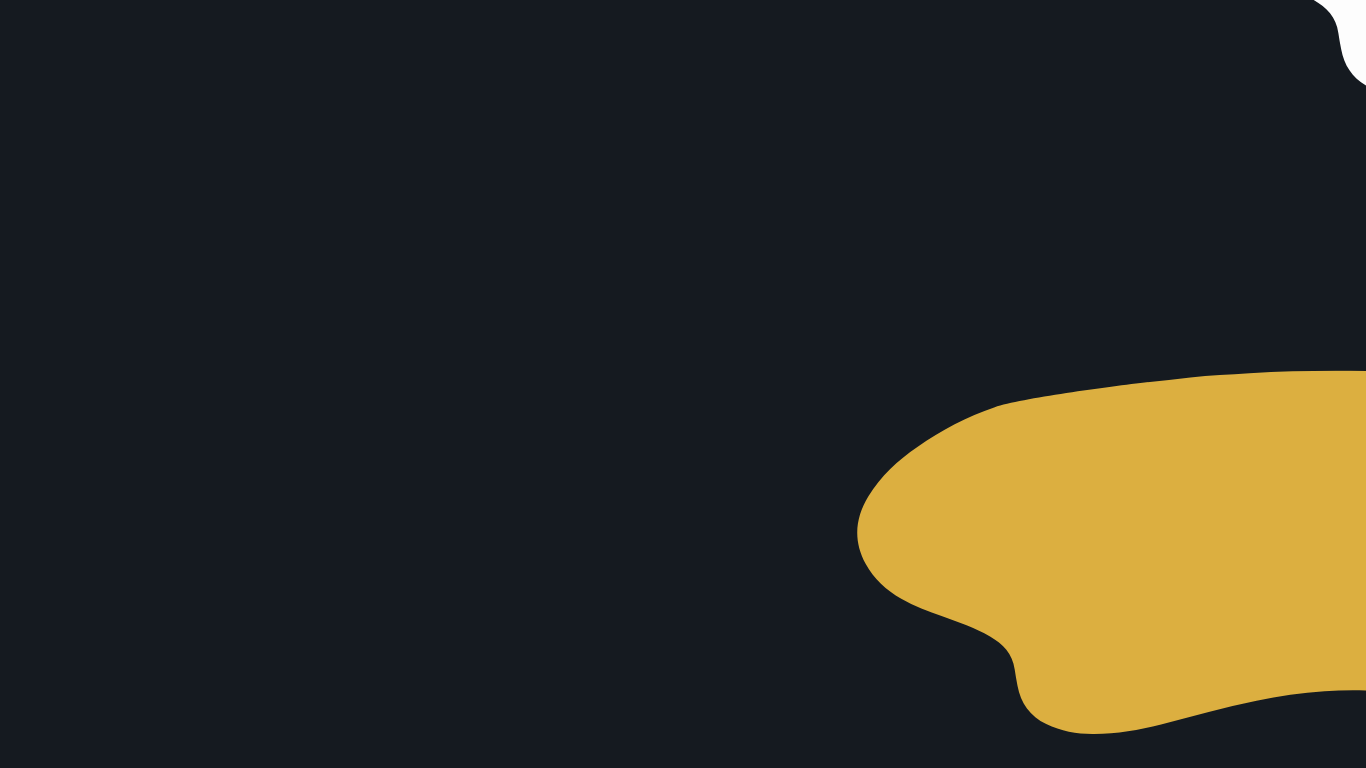
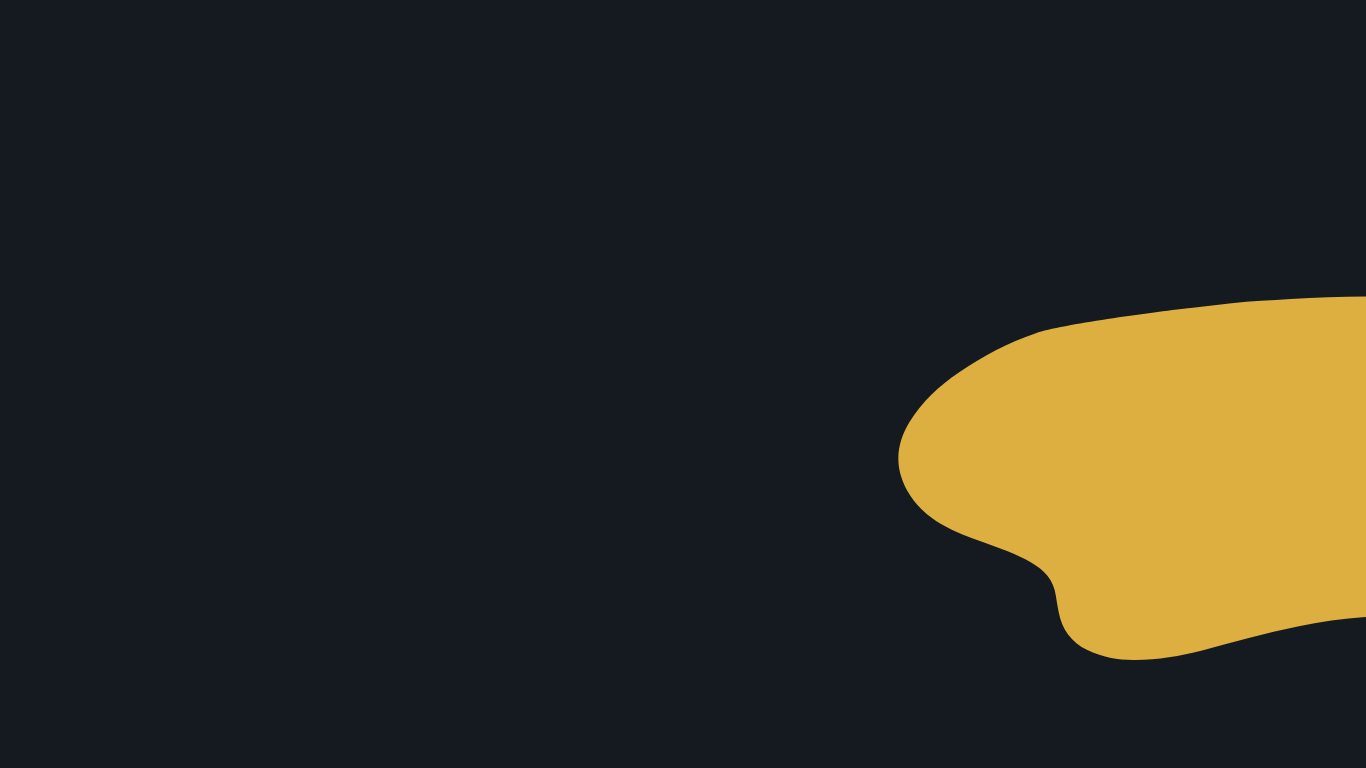
Procedure background and mobile

Changed region(s): [[0.6149, 0.375, 1.0, 0.9688], [0.9531, 0.0, 1.0, 0.125]]

diff --git a/src/components/Hero.jsx b/src/components/Hero.jsx
@@ -7,22 +7,23 @@ const Hero = () => {
 
   return (
     <section className='relative w-full h-screen mx-auto'>
-      <div className={`absolute inset-0 lg:top-[200px] top-[150px] mx-auto flex lg:flex-row flex-col items-start gap-10`}>
+      <div className={`absolute inset-0 lg:top-[180px] top-[150px] mx-auto flex lg:flex-row flex-col items-start gap-10`}>
         <div className='lg:w-5/6 w-full flex flex-col justify-center items-center lg:bg-transparent home p-6 mt-10 rounded-xl landing'>
-          <h1 className='text-white text-[25px] lg:text-6xl text-center'>
+          <h1 className='text-white text-[25px] lg:text-5xl text-center'>
             Transform Your Ground Leveling with our <br/>
             <span className='text-secondary text-[25px] lg:text-6xl'>
               Flat Floor System
             </span>
           </h1>
-          <p className='text-center lg:my-10 my-12 lg:text-3xl text-white'>
+          <p className='text-center lg:mt-18 my-12 lg:text-3xl text-white'>
           Revolutionize your projects with <span className='text-secondary font-bold'>ML GOLDEN TRADING</span> , through our patented groundbreaking <span className='text-secondary'>self-leveling cement screeding</span> screeding and <span className='text-secondary'>cement mortar screeding systems</span> . Trusted by contractors for unparalleled precision and efficiency.
           </p>
-          <a class="bg-white hover:bg-zinc-300 transition duration-500 text-black cursor-pointer font-bold py-5 px-7 rounded-full" key={navLinks[0].id} href={`#${navLinks[0].id}`} onClick={()=>setActive(navLinks[0].title)}>
+          <a class="bg-white hover:bg-zinc-300 transition duration-500 text-black cursor-pointer font-bold py-5 px-7 xl:mt-20 rounded-full" key={navLinks[0].id} href={`#${navLinks[0].id}`} onClick={()=>setActive(navLinks[0].title)}>
               Explore Now
           </a>
         </div>
         <div className='product h-full lg:w-1/3 lg:top-0 top-1/4 lg:relative absolute w-full mr-5'>
+          <div className='w-full h-full absolute lg:z-0 z-10'></div>
           <Product1Canvas/>
         </div>
       </div>

diff --git a/src/App.jsx b/src/App.jsx
@@ -1,7 +1,23 @@
 import { BrowserRouter } from "react-router-dom"
 import { AboutUs, Benefits, Footer, Hero, Navbar, Order, Procedure, WhyUs} from "./components"
+import React, { useState, useEffect } from 'react';
 
 const App = () => {
+  const [isMobile, setIsMobile] = useState(false);
+
+  useEffect(() => {
+    const mediaQuery = window.matchMedia('(max-width: 1024px)');
+    setIsMobile(mediaQuery.matches);
+    const handleMediaQueryChange = (event) => {
+      setIsMobile(event.matches);
+    };
+    mediaQuery.addEventListener('change', handleMediaQueryChange);
+
+    return () => {
+      mediaQuery.removeEventListener('change', handleMediaQueryChange);
+    };
+  }, []);
+
   return (
     <BrowserRouter>
       <div className="relative z-0 bg-primary">
@@ -10,7 +26,9 @@ const App = () => {
           <Hero/>
         </div>
       </div>
+      <div className={`blob-container ${isMobile ? 'procedure_blob_mobile' : 'procedure_blob'}`}>
         <Procedure/>
+      </div>
         <Benefits/>
         <AboutUs/>
         <WhyUs/>

diff --git a/src/index.css b/src/index.css
@@ -21,3 +21,20 @@
 .landing{
     z-index: 1;
 }
+
+.blob-container{
+    position: relative;
+    aspect-ratio: 960/540;
+    width: 100%;   
+    height: 100%;
+    z-index: -2;
+    background-repeat: no-repeat;
+    background-position:center ;
+    background-size: cover;
+}
+.procedure_blob{
+    background-image: url("./assets/procedure_bg.svg");
+}
+.procedure_blob_mobile{
+    background-image: url("./assets/procedure_bg_mobile.svg");
+}

diff --git a/src/assets/index.js b/src/assets/index.js
@@ -8,12 +8,15 @@ import manpower from "./manpower.svg";
 import nature from "./nature.svg";
 import time from "./time.svg";
 import background_mobile from "./background_mobile.png";
+import background_procedure from "./procedure_bg.svg";
+
 
 
 
 export {
   background_mobile,
   background,
+  background_procedure,
   company_circle,
   company_square,
   menu,

diff --git a/src/components/Procedure.jsx b/src/components/Procedure.jsx
@@ -2,7 +2,9 @@ import React from 'react'
 
 const Procedure = () => {
   return (
-    <div>Procedure</div>
+    <div className='h-screen'>
+      Procedure
+    </div>
   )
 }
 
